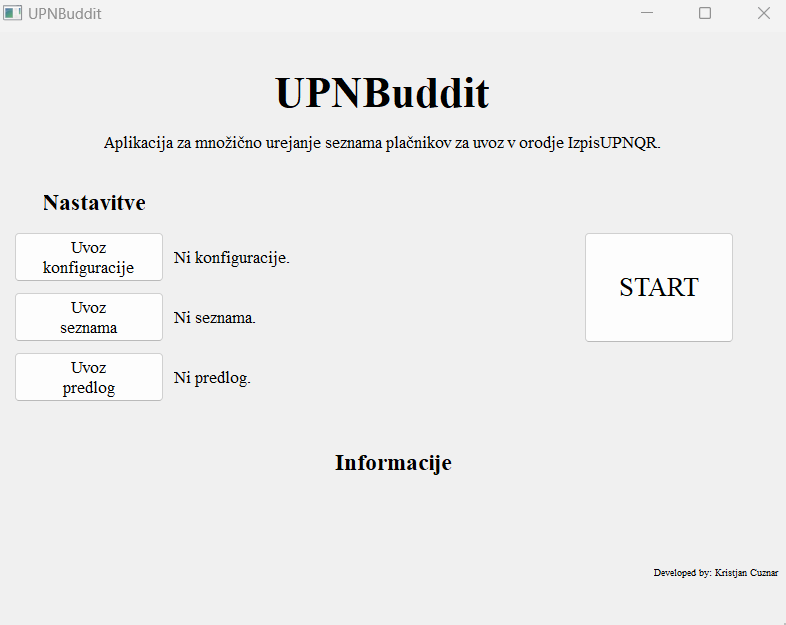
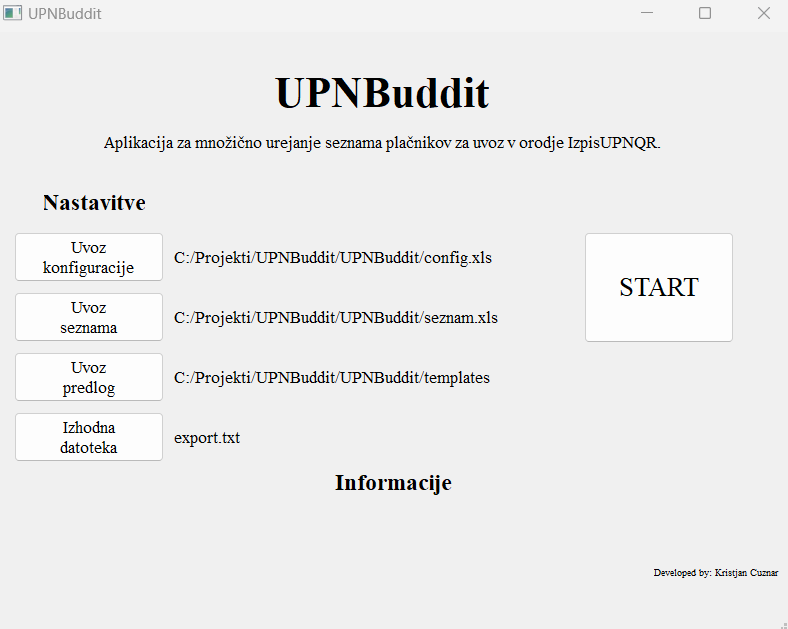
Popravljanje dokumentacije.

diff --git a/README.md b/README.md
@@ -88,7 +88,13 @@ Izgled grafičnega vmesnika je prikazan na spodnji sliki.
 |:--:| 
 | *Izbira mape predlog.* |
 
-4. Pritisnemo na gumb START. Če smo pravilno sledili navodilom, nas program obvesti o končanju in pot do generirane daoteke.
+4. Pritisnemo na gumb Uvoz seznama in izberemo poljubno ime izhodne datoteke s končnico `.txt`, npr. `export.txt`. Izberemo Shrani.
+
+| ![Konfiguracija](/docs/img/gui_output_select.png) |
+|:--:| 
+| *Izbira izhodne datoteke.* |
+
+5. Pritisnemo na gumb START. Če smo pravilno sledili navodilom, nas program obvesti o končanju in pot do generirane daoteke.
 
 | ![Konfiguracija](/docs/img/gui_done.png) |
 |:--:| 
